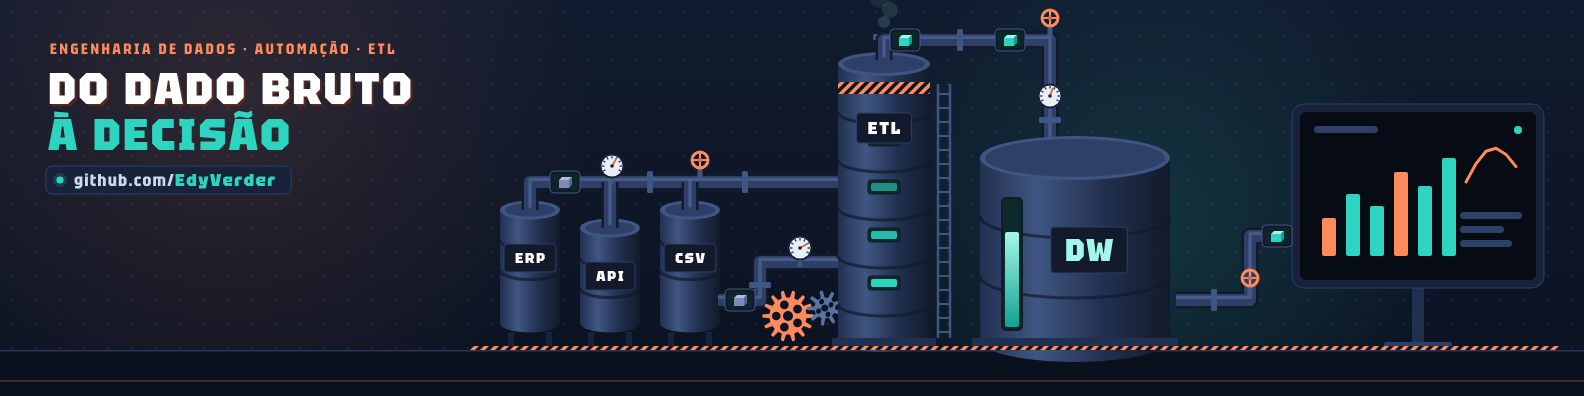
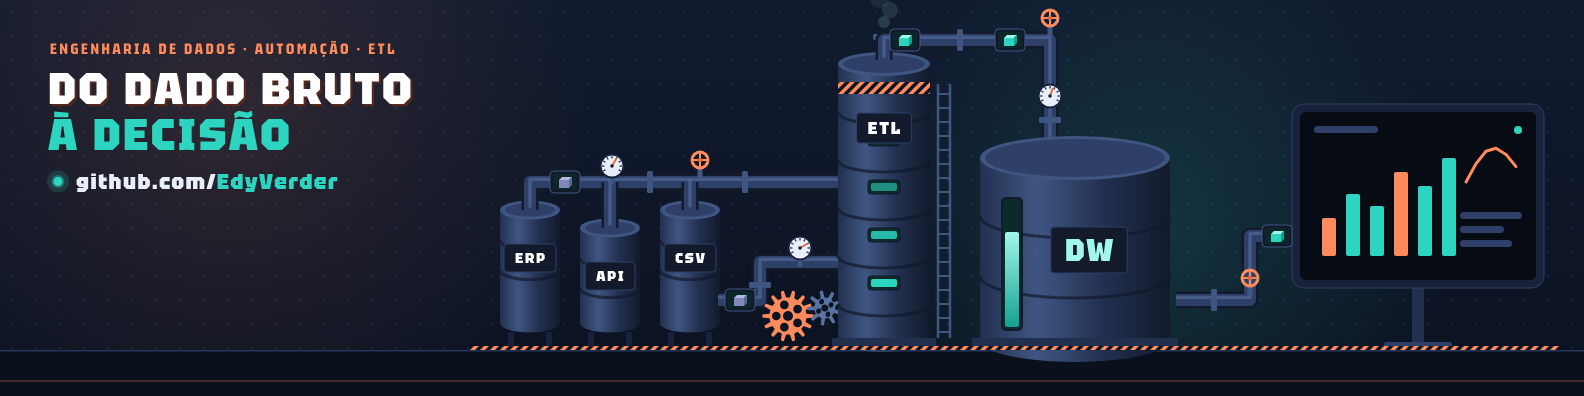
Capa do LinkedIn: GitHub com a bolinha verde e o nome como na primeira capa

Changed region(s): [[0.0309, 0.3939, 0.2165, 0.5152]]

diff --git a/scripts/gerar_capa_linkedin.py b/scripts/gerar_capa_linkedin.py
@@ -103,13 +103,12 @@ def main():
     sob, _ = texto(TK700, 10.5, "ENGENHARIA DE DADOS · AUTOMAÇÃO · ETL", 50, 54, c["brasa"], 2.6)
     l1, _ = texto(TK900, 31, "DO DADO BRUTO", 48, 104, "#ffffff", 2)
     l2, _ = texto(TK900, 31, "À DECISÃO", 48, 150, c["dado"], 2)
-    # endereço do GitHub numa plaquinha com luz de status, na fonte da marca
-    u1, larg1 = texto(TK700, 12, "github.com/", 74, 186, "#cfd8ea", 1.2)
-    u2, larg2 = texto(TK900, 12, "EdyVerder", 74 + larg1 + 1, 186, c["dado"], 1.4)
-    fim = 74 + larg1 + 1 + larg2 + 16
-    url = (f'<rect x="46" y="166" width="{n(fim - 46)}" height="28" rx="6" fill="{c["aco1"]}" stroke="{c["aco3"]}"/>'
-           f'<circle cx="60" cy="180" r="7" fill="{c["dado"]}" opacity=".18"/>'
-           f'<circle cx="60" cy="180" r="3.6" fill="{c["dado"]}"/>' + u1 + u2)
+    # endereço do GitHub como na primeira capa: bolinha verde acesa, "github.com/" em branco e o nome em verde-água
+    u1, larg1 = texto(TK900, 15, "github.com/", 76, 189, "#e9eff9", 1.2)
+    u2, _ = texto(TK900, 15, "EdyVerder", 76 + larg1 + 1, 189, c["dado"], 1.2)
+    url = (f'<circle cx="58" cy="181.5" r="11" fill="{c["dado"]}" opacity=".16"/>'
+           f'<circle cx="58" cy="181.5" r="6.5" fill="{c["dado"]}" opacity=".35"/>'
+           f'<circle cx="58" cy="181.5" r="4.5" fill="{c["dado"]}"/>' + u1 + u2)
     chamada = sob + f'<g transform="translate(2.2 2.2)" opacity=".55">{l1.replace(chr(34) + "#ffffff" + chr(34), chr(34) + c["brasa4"] + chr(34))}</g>' + l1 + l2 + url
 
     # tanques de origem
